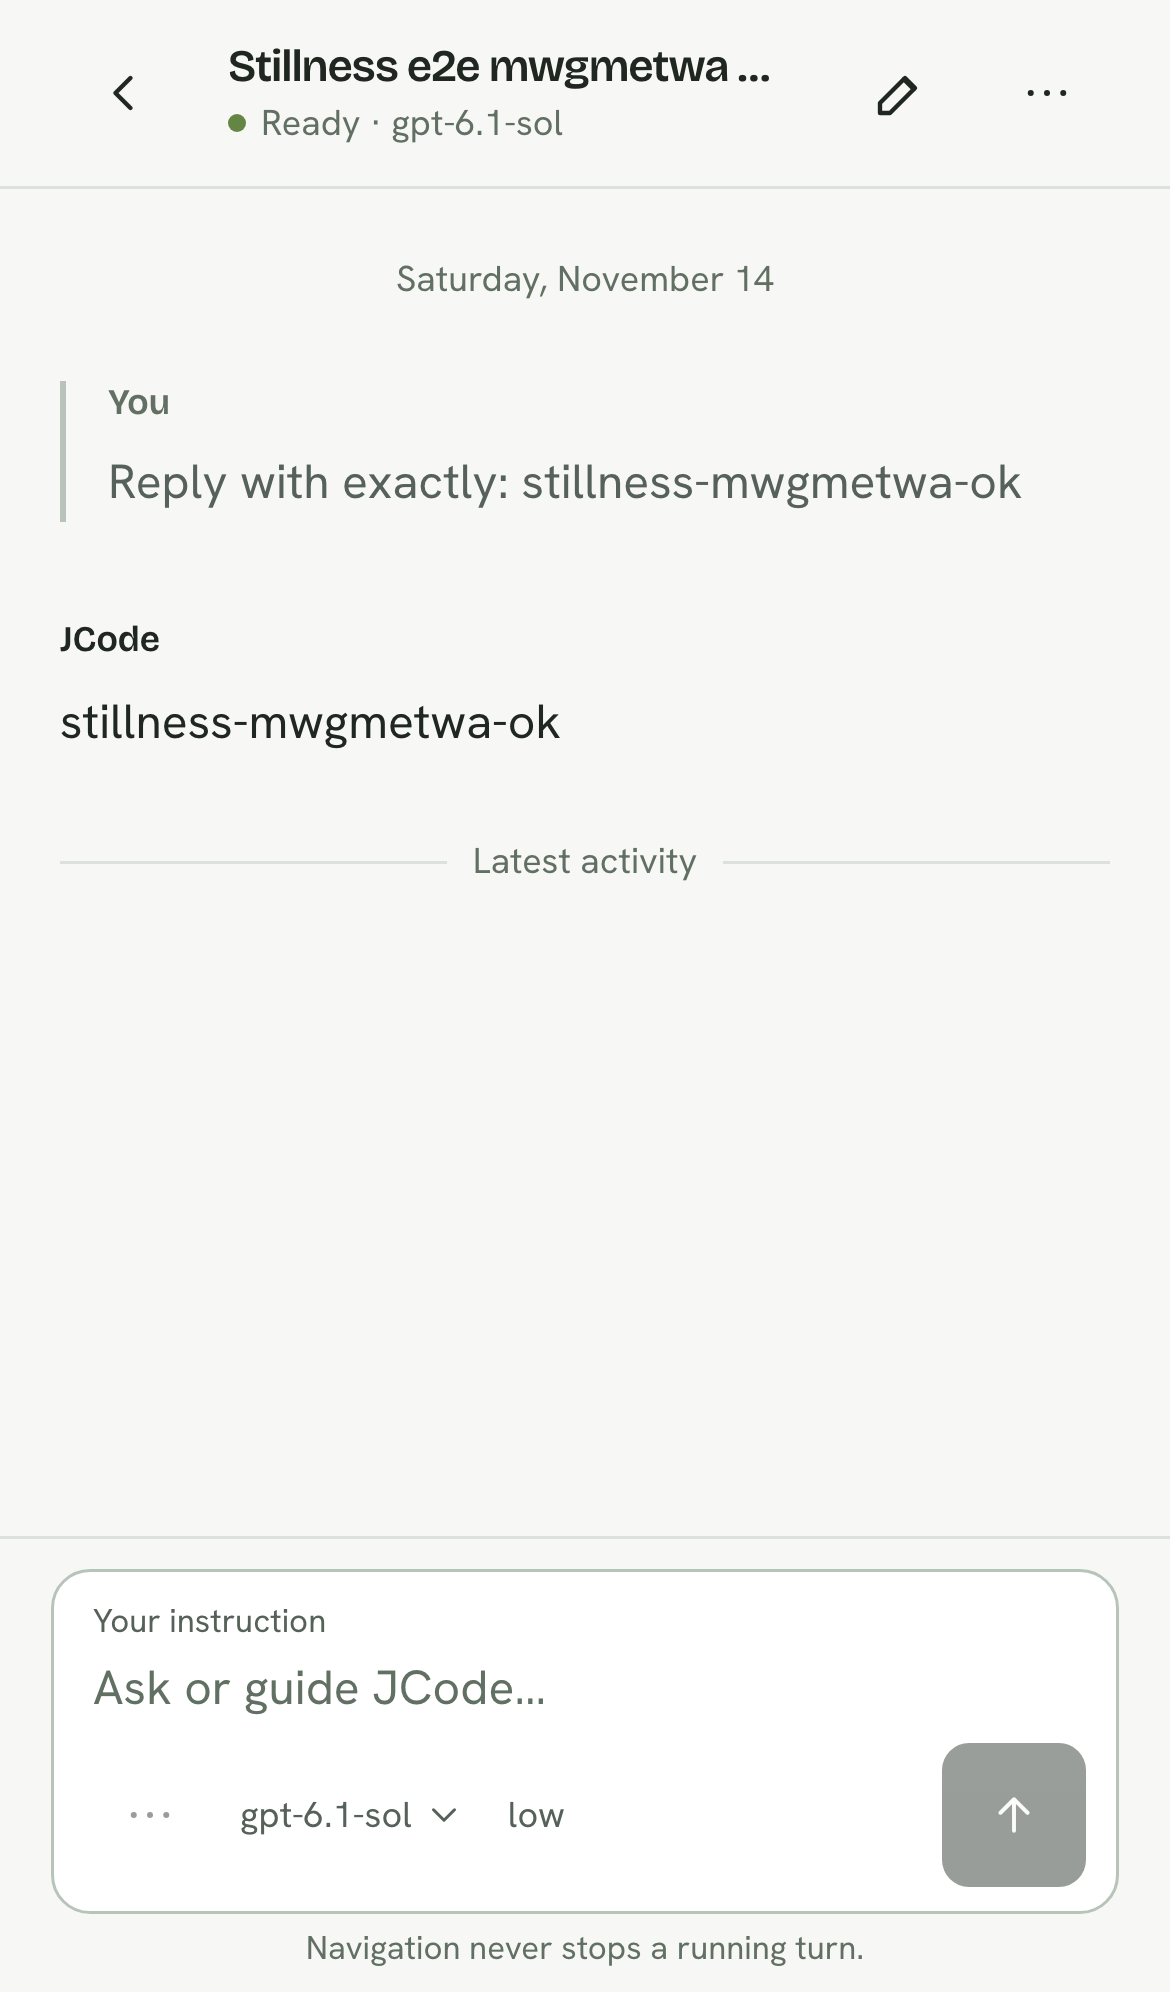
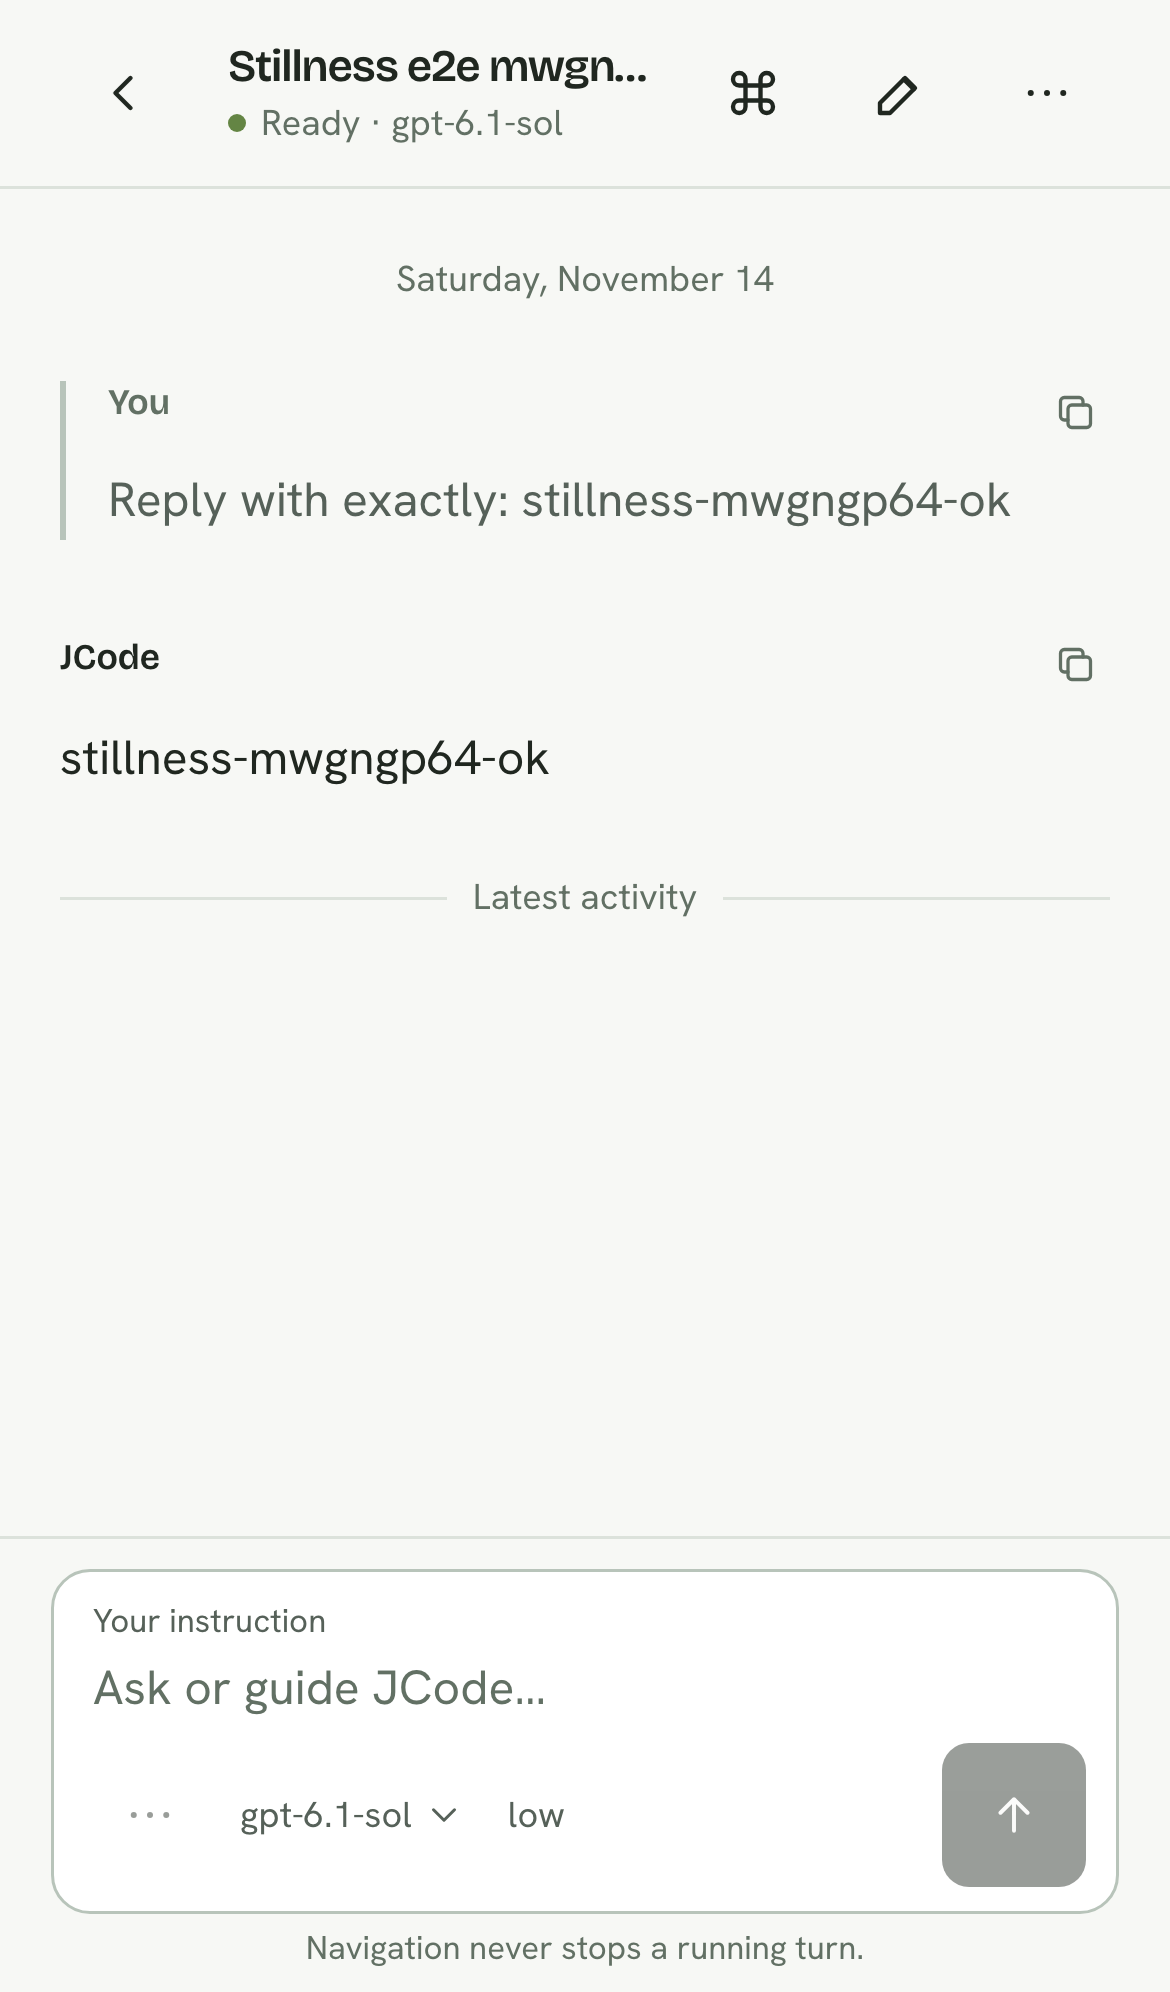
merge(stillness): gestures, motion, timeline and conversation UX
Merged feat/stillness-gestures (worker B): gesture drawer, draggable sheets,
swipe rows with undo, pull-to-refresh, predictive back, spring/rAF motion with
reduced-motion fallback, chronological tool/reasoning timeline, copy actions,
quick switcher, searchable model picker, reasoning slider, permission panel,
title stability, accessibility and 44px targets.

Also: 0.4.0 version labels, lint-clean hooks, release notes and migration
playbook. Root typecheck PASS, eslint 0 errors, 139 Jest tests PASS, Stillness
build PASS, browser e2e 4 PASS / 3 skipped.

diff --git a/apps/stillness/src/screens/Library.tsx b/apps/stillness/src/screens/Library.tsx
@@ -725,15 +725,15 @@ export function SettingsScreen({ state }: { state: AppState }) {
             <h2 className="pref-title">About</h2>
             <div className="pref-row">
               <div>
-                Adapter<small>Rust Adapter v2 · {state.server?.adapter_version ?? '0.3.1'}</small>
+                Adapter<small>Rust Adapter v3 · {state.server?.adapter_version ?? '0.4.0'}</small>
               </div>
               <span className="note-sub">{state.server?.server_id?.slice(0, 18) ?? '—'}</span>
             </div>
             <div className="pref-row">
               <div>
-                Stillness 12<small>JCode Mobile 0.3.1</small>
+                Stillness 12<small>JCode Mobile 0.4.0</small>
               </div>
-              <span className="note-sub">v0.3.1</span>
+              <span className="note-sub">v0.4.0</span>
             </div>
             <div className="pref-row">
               <div>

diff --git a/apps/stillness/src/components/GestureDrawer.tsx b/apps/stillness/src/components/GestureDrawer.tsx
@@ -89,7 +89,6 @@ export function Drawer({ state }: { state: AppState }) {
   useEffect(() => {
     paint(-(drawerRef.current?.offsetWidth || SAFE_WIDTH));
     return () => springRef.current?.cancel();
-    // eslint-disable-next-line react-hooks/exhaustive-deps
   }, []);
 
   const drawerDrag = useAxisDrag({
@@ -256,7 +255,7 @@ export function Drawer({ state }: { state: AppState }) {
           <button onClick={() => controller.go('settings')}>
             <Torus size={18} animated={false} /> Preferences
           </button>
-          <span className="preview">v0.3.1</span>
+          <span className="preview">v0.4.0</span>
         </div>
       </aside>
       {!open ? (

diff --git a/apps/stillness/src/components/Timeline.tsx b/apps/stillness/src/components/Timeline.tsx
@@ -273,7 +273,9 @@ export function LiveTimeline({
   live: LiveState;
   visibility: 'compact' | 'hidden' | 'expanded';
 }) {
-  const journal = useMemo(() => new TimelineJournal(), [live.turnId ?? live.finishedTurnId ?? 'idle']);
+  // TimelineJournal resets itself when the observed turn key changes, so the
+  // instance can live for the component's lifetime.
+  const journal = useMemo(() => new TimelineJournal(), []);
   // Re-derives only when the live state object changes; idempotent for repeats.
   const items: TimelineItem[] = useMemo(
     () =>

diff --git a/apps/stillness/src/App.tsx b/apps/stillness/src/App.tsx
@@ -125,7 +125,7 @@ function Rail({ state }: { state: AppState }) {
         <IconServer size={16} />
         <div style={{ minWidth: 0, flex: 1 }}>
           <strong>{state.server?.name ?? 'JCode server'}</strong>
-          <div>{state.connection.status} · v{state.server?.adapter_version ?? '0.3.1'}</div>
+          <div>{state.connection.status} · v{state.server?.adapter_version ?? '0.4.0'}</div>
         </div>
         <span className={`status-mark ${state.jcodeConnected ? '' : 'is-active'}`} />
       </div>

diff --git a/docs/V0_4_0_RELEASE_NOTES.md b/docs/V0_4_0_RELEASE_NOTES.md
@@ -1,0 +1,100 @@
+# JCode Mobile 0.4.0 — Elegance
+
+Release date: 2026-11-14
+Protocol: Adapter v3 (minimum v2)
+Android package: `dev.jcode.stillness`, versionCode 4000
+
+## What changed
+
+### Adapter v3
+
+- Versioned handshake with explicit capability negotiation. A v2 phone keeps
+  working; a v3 phone negotiates v3 and never receives a frame above its range.
+- Durable SQLite event journal with transactional per-session sequence,
+  bounded retention, cursor replay, gap markers and per-device acknowledgements.
+- `sessions.delta` with a durable revision index and removal tombstones; a
+  daemon outage returns the saved index as `stale` instead of an invented state.
+- Authenticated `diagnostics.snapshot` with real journal, connection, operation
+  and latency counters, plus opt-in fault injection for conformance tests.
+- Validated inline image attachments (PNG/JPEG/WebP/GIF, four per message,
+  4 MiB each) sent through the harness image channel.
+- Push registration, per-kind preferences and dedupe, with FCM HTTP v1 delivery
+  when operator credentials are configured. Payloads never contain transcript
+  content.
+- Adapter-owned favorites and authoritative archive/restore. Delete is refused
+  honestly because the daemon has no delete capability.
+- `jcode-adapter-v3` binary name; `jcode-adapter-v2` remains as a rollback alias
+  and runs the same versioned server.
+
+### Stillness client
+
+- Cache-first startup: the last authorized session and draft paint before the
+  network handshake, clearly marked as saved on this phone until reconciled.
+- Reconnect uses journal replay from the last cursor; a gap or epoch mismatch
+  falls back to an authoritative snapshot.
+- Delta session sync with local merge and tombstone removal; no full-list flash.
+- Gesture system: finger-following drawer with rubber band and velocity spring,
+  draggable sheets, swipe actions with undo, long-press menus, pull-to-refresh,
+  predictive back guards that never hijack navigation when nothing is open.
+- Motion system: one dependency-free spring loop, transform/opacity only,
+  reduced-motion crossfade, rAF-batched streaming text, 220 ms stage transitions.
+- Conversation timeline: interleaved reasoning, tool start/input/exec/done and
+  assistant text in observed order, expandable results, stable call-id keys.
+- One-tap copy on messages, reasoning, tool calls, tool inputs, tool outputs and
+  code fences.
+- Quick switcher (`Ctrl/Cmd+K`), server-scoped search, favorites, offline use.
+- Model picker with instant search, provider chips, grouped routes and duplicate
+  name disambiguation by provider and API method. Reasoning effort is a discrete
+  snapping slider with haptics and ARIA.
+- "Waiting for your approval" panel wired to the real permission response.
+- Title stability: the confirmed snapshot title is used while it exists, with
+  inventory only as a fallback.
+
+### Native Android (see `docs/ANDROID_NATIVE.md` for the exact matrix)
+
+- Notification channels, Android 13 permission flow, deep links.
+- WorkManager reconciliation scheduling with an on/off setting (minimum 15 min).
+- Sharesheet in/out, photo picker, document picker, camera, downloads,
+  open-with, clipboard and haptics.
+- Biometric/Keystore app lock, edge-to-edge insets, IME behavior, predictive
+  back bridge, app shortcuts, widget and Quick Settings tile where implemented.
+- Unified settings bridge for notifications, background sync, motion, haptics
+  and privacy.
+
+## Verification
+
+| Check | Result |
+| --- | --- |
+| `cargo test --workspace` | PASS, see `docs/evidence/v0.4.0/` |
+| `cargo fmt --check`, `cargo clippy -D warnings` | PASS |
+| Stillness `tsc --noEmit && vite build` | PASS |
+| UX helper checks (`scripts/check-stillness-ux.mjs`) | PASS 7/7 |
+| Browser e2e against real daemon + Adapter v3 | PASS 4, skipped 3 by design |
+| Adapter v3 real-stack smoke (real agent turn) | PASS |
+| Android Kotlin compile | PASS on this host (JDK 24, SDK 36) |
+| Android release APK | see `docs/BUILD_STATE.md` |
+| Android emulator install/launch | see `docs/BUILD_STATE.md` |
+| Physical Android device | NOT_RUN (no device attached) |
+| FCM delivery | NOT_RUN (no Firebase credentials) |
+| Screen reader, frame pacing, battery | NOT_RUN / PARTIAL as recorded |
+
+## Known limitations
+
+- `sessions.delete` is not available: the daemon has no delete operation. The UI
+  reports the refusal and changes nothing. Archive is the supported alternative.
+- FCM delivery requires `JCODE_FCM_PROJECT_ID` and a refreshed
+  `JCODE_FCM_ACCESS_TOKEN`. Without them push is explicitly `not_configured`.
+- The adapter journal stores event payloads with bounded retention. It is not an
+  unbounded transcript archive; authoritative history still comes from the daemon.
+- Exactly-once agent execution is guarded by the operation journal, not by the
+  event cursor.
+- Browser e2e is not native Android verification. Native checks are listed
+  separately and are not inferred from Playwright.
+
+## Install
+
+- APK: `artifacts/jcode-mobile-0.4.0-android-release.apk` with the adjacent
+  `.sha256`.
+- Adapter: run `jcode-adapter-v3` (or keep `jcode-adapter-v2`) with the same
+  data directory. Existing devices stay paired.
+- Migration and rollback: `docs/V0_4_0_MIGRATION.md`.

diff --git a/docs/V0_4_0_MIGRATION.md b/docs/V0_4_0_MIGRATION.md
@@ -1,0 +1,124 @@
+# JCode Mobile 0.2.x / 0.3.x → 0.4.0 migration and rollback
+
+Scope: adapter v2 → v3, Stillness 0.3.1 → 0.4.0, and the Android artifact.
+The daemon stays where it is. Nothing here requires deleting sessions or
+re-pairing a phone.
+
+## 1. Before upgrading
+
+1. Stop the adapter only (not the JCode daemon).
+2. Back up the adapter data directory. Default on Linux:
+   `~/.local/share/jcode-mobile-adapter-v2/` (the directory name is retained).
+   ```sh
+   cp -a ~/.local/share/jcode-mobile-adapter-v2 \
+         ~/.local/share/jcode-mobile-adapter-v2.pre-0.4.0
+   ```
+3. Record the current `/health` output and the paired device count
+   (`device.list` through a paired client if available).
+
+## 2. Adapter upgrade
+
+The 0.4.0 release contains two binary names that run identical code:
+
+- `jcode-adapter-v3` (preferred)
+- `jcode-adapter-v2` (rollback alias; same binary behavior)
+
+Existing service units that exec `jcode-adapter-v2` keep working without edits.
+The database is extended in place:
+
+- `event_journal`, `event_cursors`, `session_index`
+- `operation_attachments`
+- `device_push`, `push_log`
+- `session_favorites`
+
+All statements are `CREATE TABLE IF NOT EXISTS`. There is no destructive
+migration. Device tokens and in-flight operation rows are untouched.
+
+Verify:
+
+```sh
+curl -s http://127.0.0.1:7646/health
+```
+
+Expected additions:
+
+```json
+{
+  "protocol_version": 3,
+  "min_protocol_version": 2,
+  "epoch": "epoch_...",
+  "journal_events": 0,
+  "connections": 0
+}
+```
+
+A v2 phone still pairs and connects. Its handshake negotiates v2 and every
+outbound frame stays at v2.
+
+## 3. Phone upgrade
+
+Install `jcode-mobile-0.4.0-android-release.apk` over 0.3.1. The package id and
+signing key are unchanged for the debug-signed sideload artifact, so the app
+updates in place and keeps its credentials. versionCode is 4000.
+
+First launch after upgrade:
+
+1. The cached session list and the last session paint immediately.
+2. The banner says saved on this phone until the handshake and delta sync finish.
+3. The adapter negotiates v3. `Adapter 0.4.0` is shown on the ready screen.
+4. The client sends `events.subscribe` from its stored cursor. A successful
+   replay continues the transcript; a gap or epoch mismatch loads a snapshot.
+
+## 4. Rollback
+
+Adapter:
+
+1. Stop the 0.4.0 adapter.
+2. Run the 0.3.1 adapter against the same data directory. The older binary
+   ignores the v3 tables.
+3. Phones negotiate v2 and use full listings plus snapshot recovery.
+4. If the database itself is damaged, restore the pre-upgrade copy. Restoring
+   loses devices created after the backup; do not delete the data directory
+   otherwise.
+
+Phone:
+
+1. Uninstall 0.4.0 and install 0.3.1, or install 0.3.1 over 0.4.0 if its
+   versionCode is higher. Android does not allow a lower versionCode install
+   without uninstalling; uninstalling removes the phone-side credential, so the
+   user must pair again with a fresh adapter pairing code.
+2. A 0.4.0 phone with a 0.3.1 adapter is supported: it negotiates v2 and avoids
+   v3-only requests. This is the safest mixed-version state.
+
+## 5. What was exercised
+
+On the isolated staging daemon (not the production daemon), 2026-11-14:
+
+- Adapter restart on the same data directory: journal sequence continued,
+  reconnect replay from an acknowledged cursor returned 0 duplicates, no
+  resync, and the operation remained `accepted` (no second execution).
+- v2 handshake against the v3 adapter: negotiated v2.
+- Full then incremental delta: PASS.
+- Browser e2e with the real daemon: 4 passed, 3 skipped by design.
+
+Not exercised:
+
+- Android emulator install/rollback of the APK (folded into the release checks;
+  see `docs/BUILD_STATE.md`).
+- Physical device rollback.
+- Adapter downgrade against a database that already contains v3 data
+  (the older binary ignores the tables, but this was not run).
+
+Evidence: `docs/evidence/v0.4.0/adapter-v3-smoke.txt`,
+`docs/evidence/v0.4.0/stillness-e2e.txt`.
+
+## 6. FCM and background sync
+
+- Push requires `JCODE_FCM_PROJECT_ID` and `JCODE_FCM_ACCESS_TOKEN`. Without both,
+  `push.status` reports `configured: false` and notifications are skipped.
+- Disabling background sync or notifications on the phone never stops a VPS
+  turn. Android Doze may delay reconciliation; the daemon remains authoritative.
+- Removing the app or clearing data removes the push registration on the next
+  `push.unregister` attempt. If the app is uninstalled abruptly, the adapter
+  keeps a stale token until FCM rejects it; delivery failure is recorded in
+  `push.status.last_error`.
